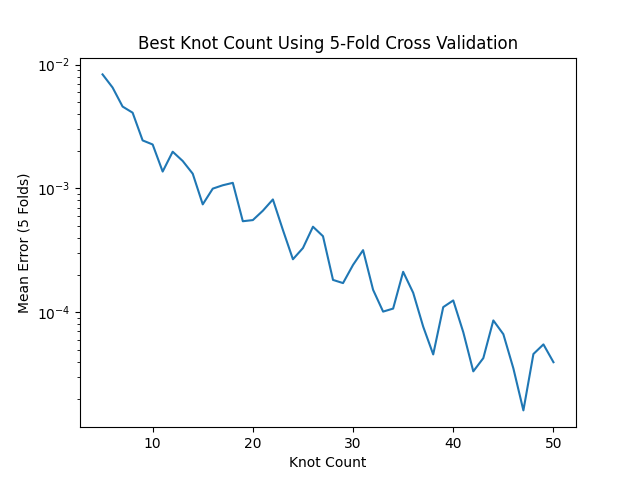
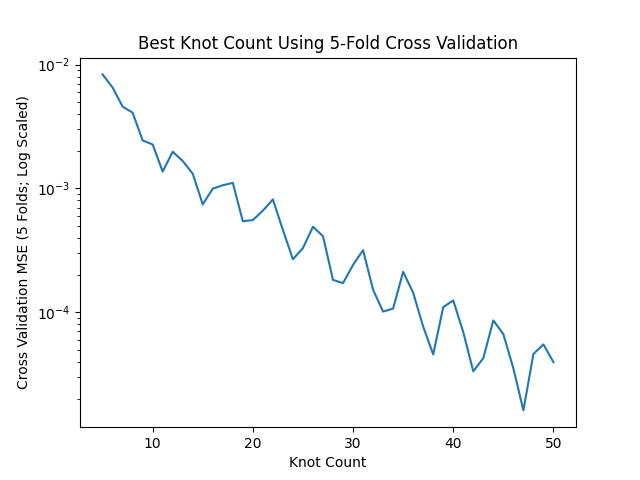
finished up plotting

Changed region(s): [[0.0312, 0.1875, 0.0625, 0.8125]]

diff --git a/problem1/problem1.py b/problem1/problem1.py
@@ -111,7 +111,7 @@ if __name__ == '__main__':
     ax.set_yscale('log')
 
     plt.xlabel('Knot Count')
-    plt.ylabel('Mean Error (5 Folds)')
+    plt.ylabel('Cross Validation MSE (5 Folds; Log Scaled)')
     plt.title('Best Knot Count Using 5-Fold Cross Validation')
     
     output_filepath_kfold = os.path.abspath(os.path.join(current_path, '..', '..', 'output', '5fold_cross_validation_splines.png'))
@@ -127,10 +127,10 @@ if __name__ == '__main__':
     plot_x = np.arange(5, len(mean_errors) + 5)
 
     ax = sns.lineplot(x = plot_x[-10:], y = mean_errors[-10:])
-    ax.set_yscale('log')
+    ax.set_yscale('linear')
 
     plt.xlabel('Knot Count')
-    plt.ylabel('Mean Error (5 Folds)')
+    plt.ylabel('Cross Validation MSE (5 Folds)')
     plt.title('Best Knot Count Using 5-Fold Cross Validation')
     
     output_filepath_kfold = os.path.abspath(os.path.join(current_path, '..', '..', 'output', '5fold_cross_validation_splines_final_10.png'))
